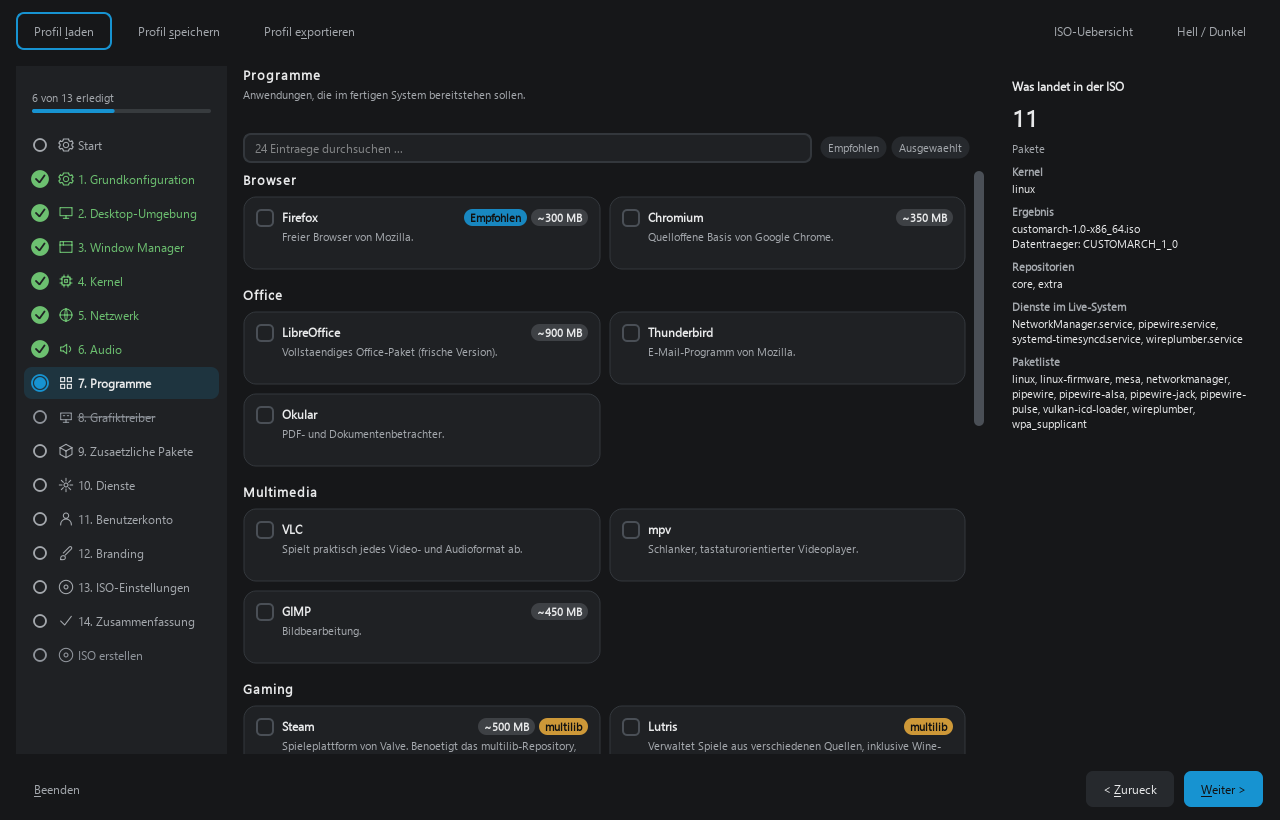
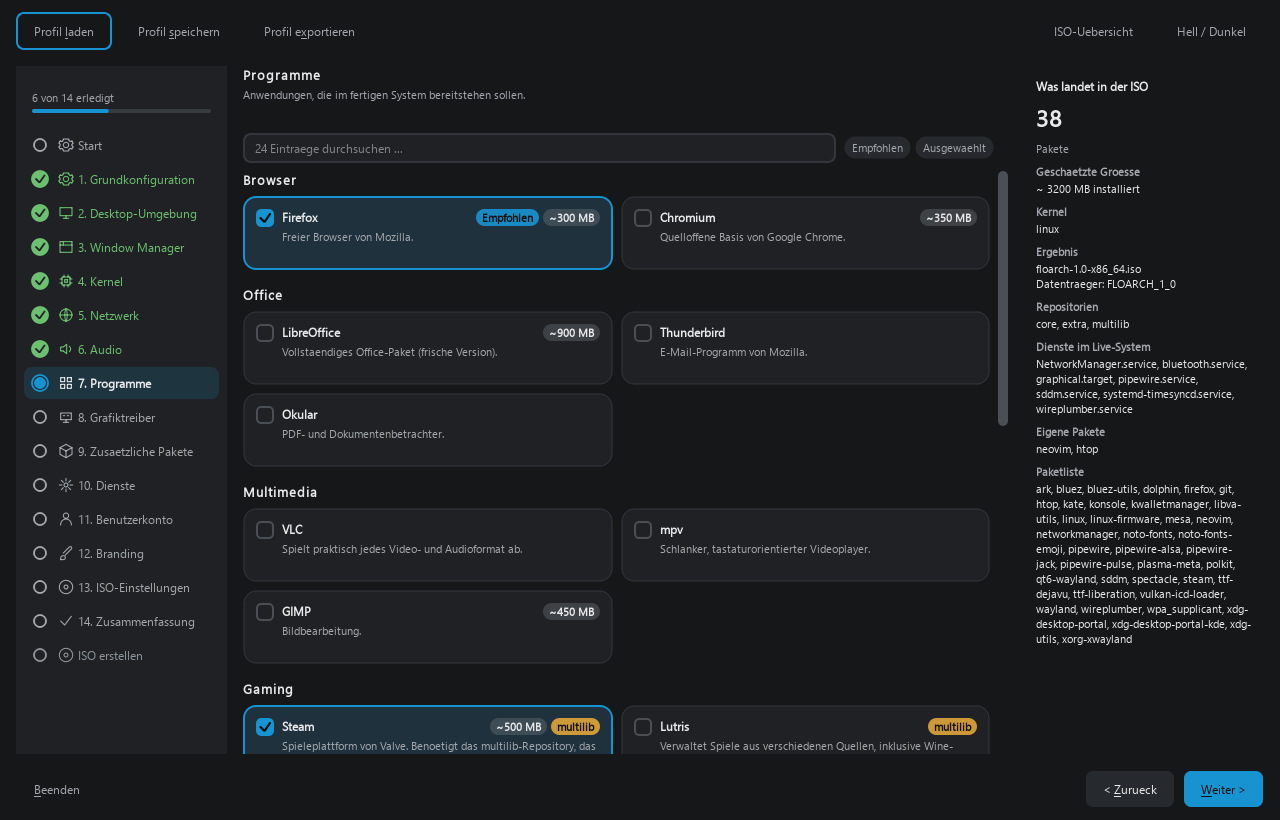
docs: Bildschirmfotos zeigen eine echte Zusammenstellung
Das Werkzeug setzte seine Auswahl, bevor die Startseite verlassen war -- und
die wendet ihre Wahl erst beim Weitergehen an. "Von vorn beginnen" ist
vorgehakt, also war die Auswahl beim ersten Schritt wieder weg, und die Bilder
zeigten ein leeres Programm mit elf Paketen.

Jetzt wird erst weitergegangen und dann ausgewaehlt: KDE, Firefox, Steam, zwei
eigene Pakete und ein eigener Distributionsname. Das Panel zeigt damit, wofuer
es da ist -- 38 Pakete, 3200 MB, multilib wegen Steam.

diff --git a/tools/gallery.py b/tools/gallery.py
@@ -101,10 +101,6 @@ def _fenster(dunkel: bool, tmp: Path):
 
     katalog = load_catalog()
     store = SelectionStore(katalog)
-    # Eine gefuellte Auswahl zeigt mehr als ein leeres Programm.
-    store.toggle("desktop.kde", True)
-    store.toggle("apps.firefox", True)
-    store.toggle("apps.git", True)
 
     # Kein Netz: der Dienst bleibt ohne Index und meldet "nicht pruefbar".
     leer = PackageConfig(repos=())
@@ -122,6 +118,22 @@ def _fenster(dunkel: bool, tmp: Path):
     fenster.resize(BREITE, HOEHE)
     fenster.show()
     return fenster
+
+
+def _auswahl_setzen(store) -> None:
+    """Eine gefuellte Zusammenstellung -- ein leeres Programm zeigt nichts.
+
+    Muss **nach** dem Verlassen der Startseite geschehen: die wendet ihre Wahl
+    erst beim Weitergehen an, und "Von vorn beginnen" ist vorgehakt. Vorher
+    gesetzte Auswahlen waeren dabei wieder weg.
+    """
+    store.toggle("desktop.kde", True)
+    store.toggle("apps.firefox", True)
+    store.toggle("apps.git", True)
+    store.toggle("apps.steam", True)
+    store.set_extra_packages(["neovim", "htop"])
+    store.set_field("branding.distro_name", "FloArch")
+    store.set_field("branding.version", "1.0")
 
 
 def _aufnehmen(fenster, ziel: Path, name: str) -> Path:
@@ -147,9 +159,19 @@ def erzeuge(ziel: Path, erscheinungen: list[str]) -> list[Path]:
         for erscheinung in erscheinungen:
             dunkel = erscheinung == "dunkel"
             fenster = _fenster(dunkel, tmp)
+
+            # Einmal weitergehen: das wendet die Wahl der Startseite an und
+            # macht den Weg fuer eine eigene Zusammenstellung frei.
+            gemacht.append(_aufnehmen(fenster, ziel, f"{erscheinung}-welcome"))
+            fenster._weiter()
+            _auswahl_setzen(fenster.store)
+            app.processEvents()
+
             for schritt in fenster.model.steps:
                 if not fenster.model.anklickbar(schritt):
                     continue
+                if schritt.id == "welcome":
+                    continue          # steht schon im Kasten
                 fenster._gehe_zu(schritt.id, animiert=False)
                 app.processEvents()
                 gemacht.append(
